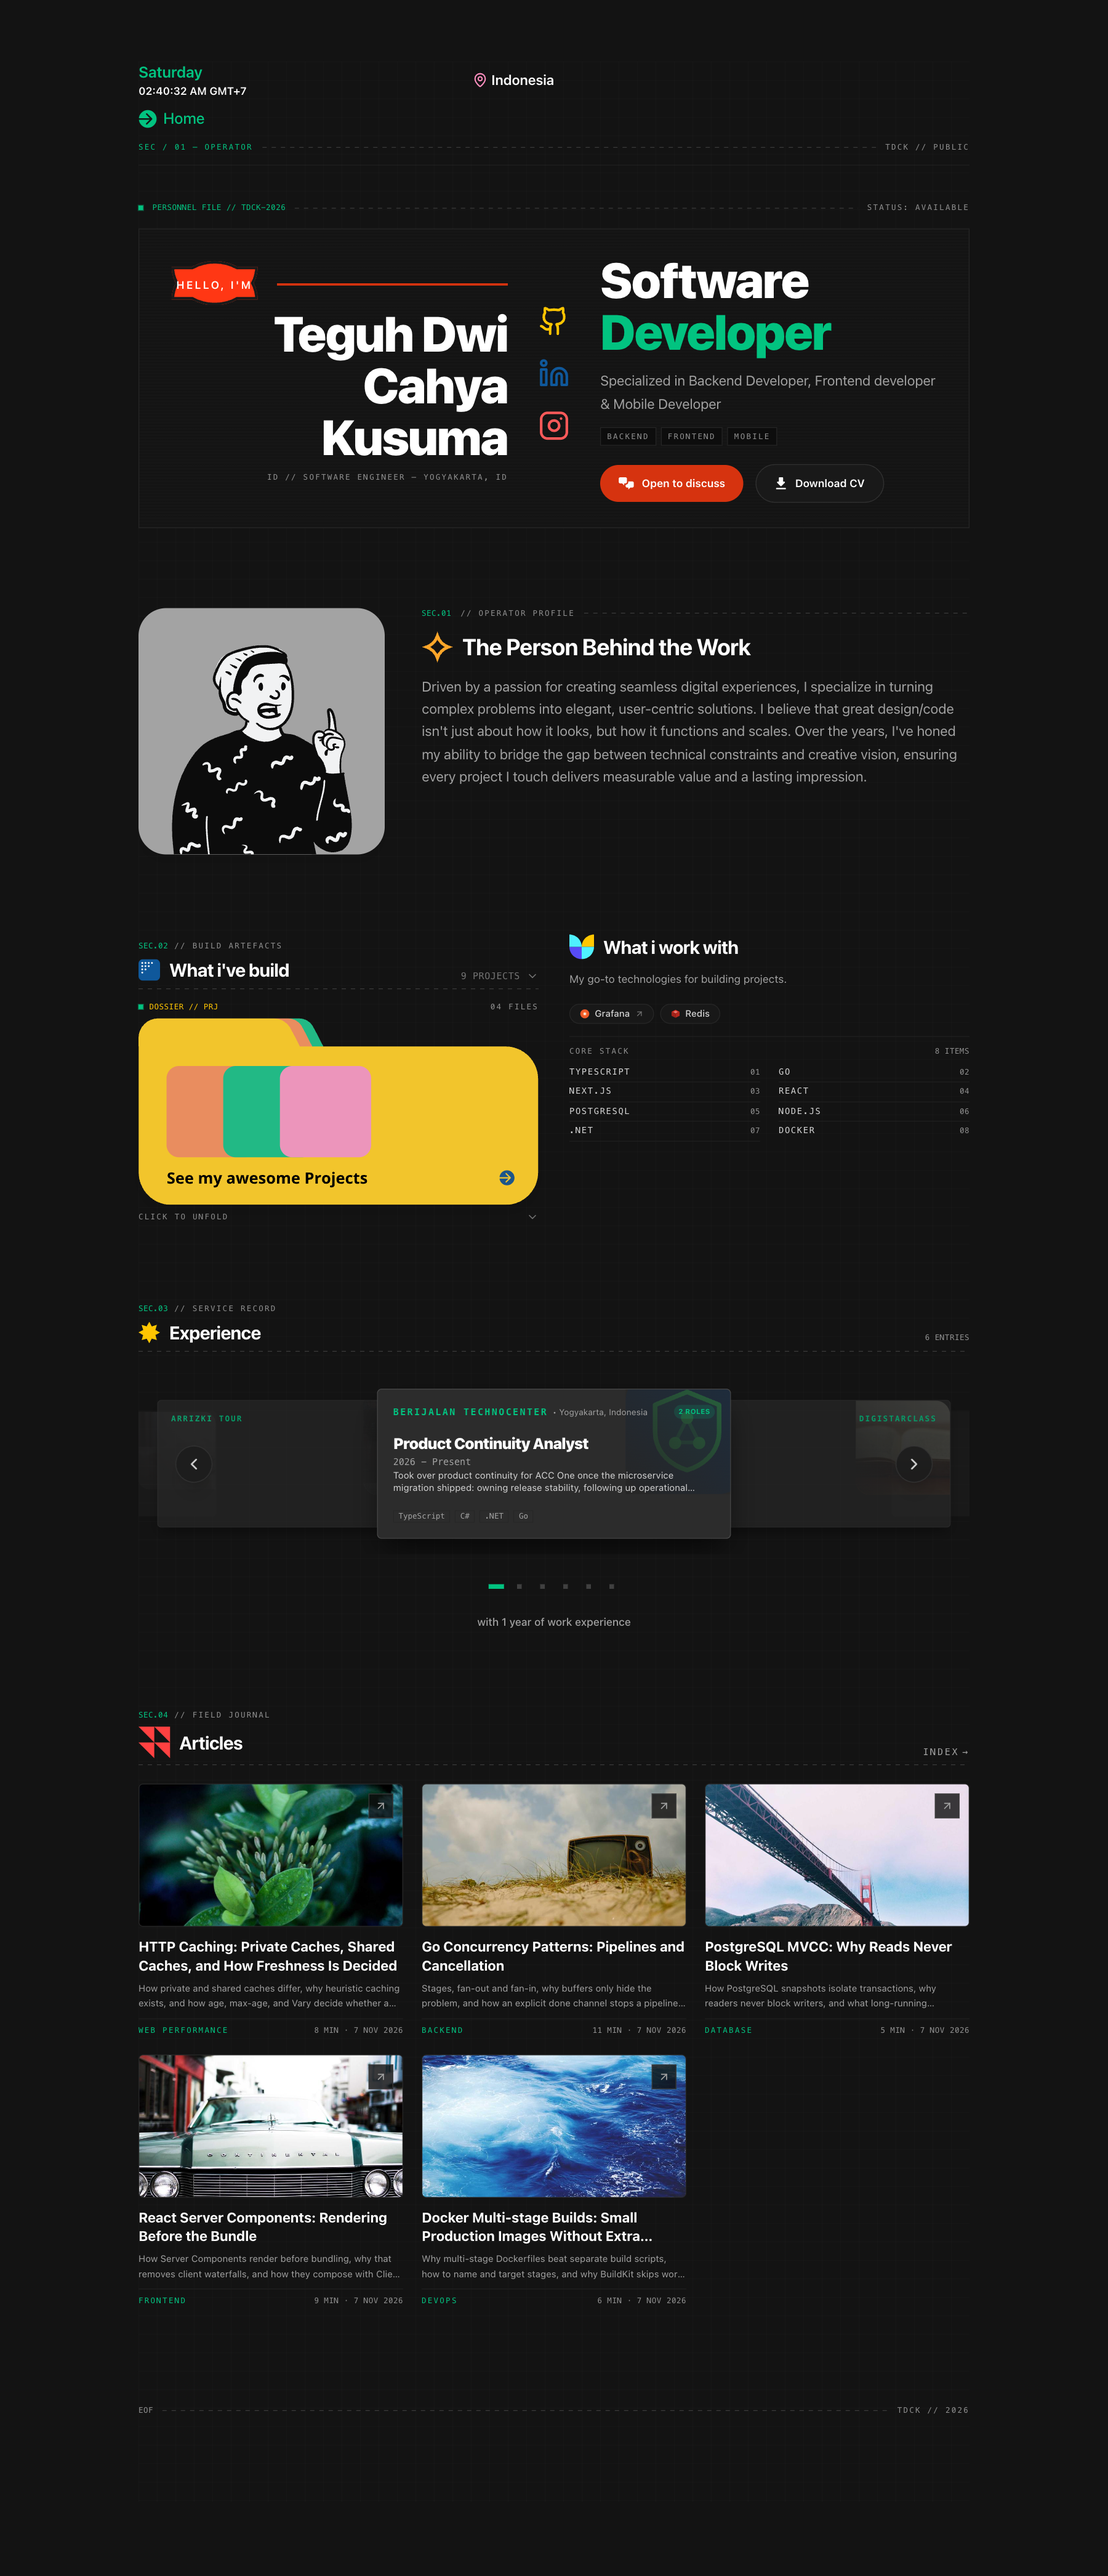
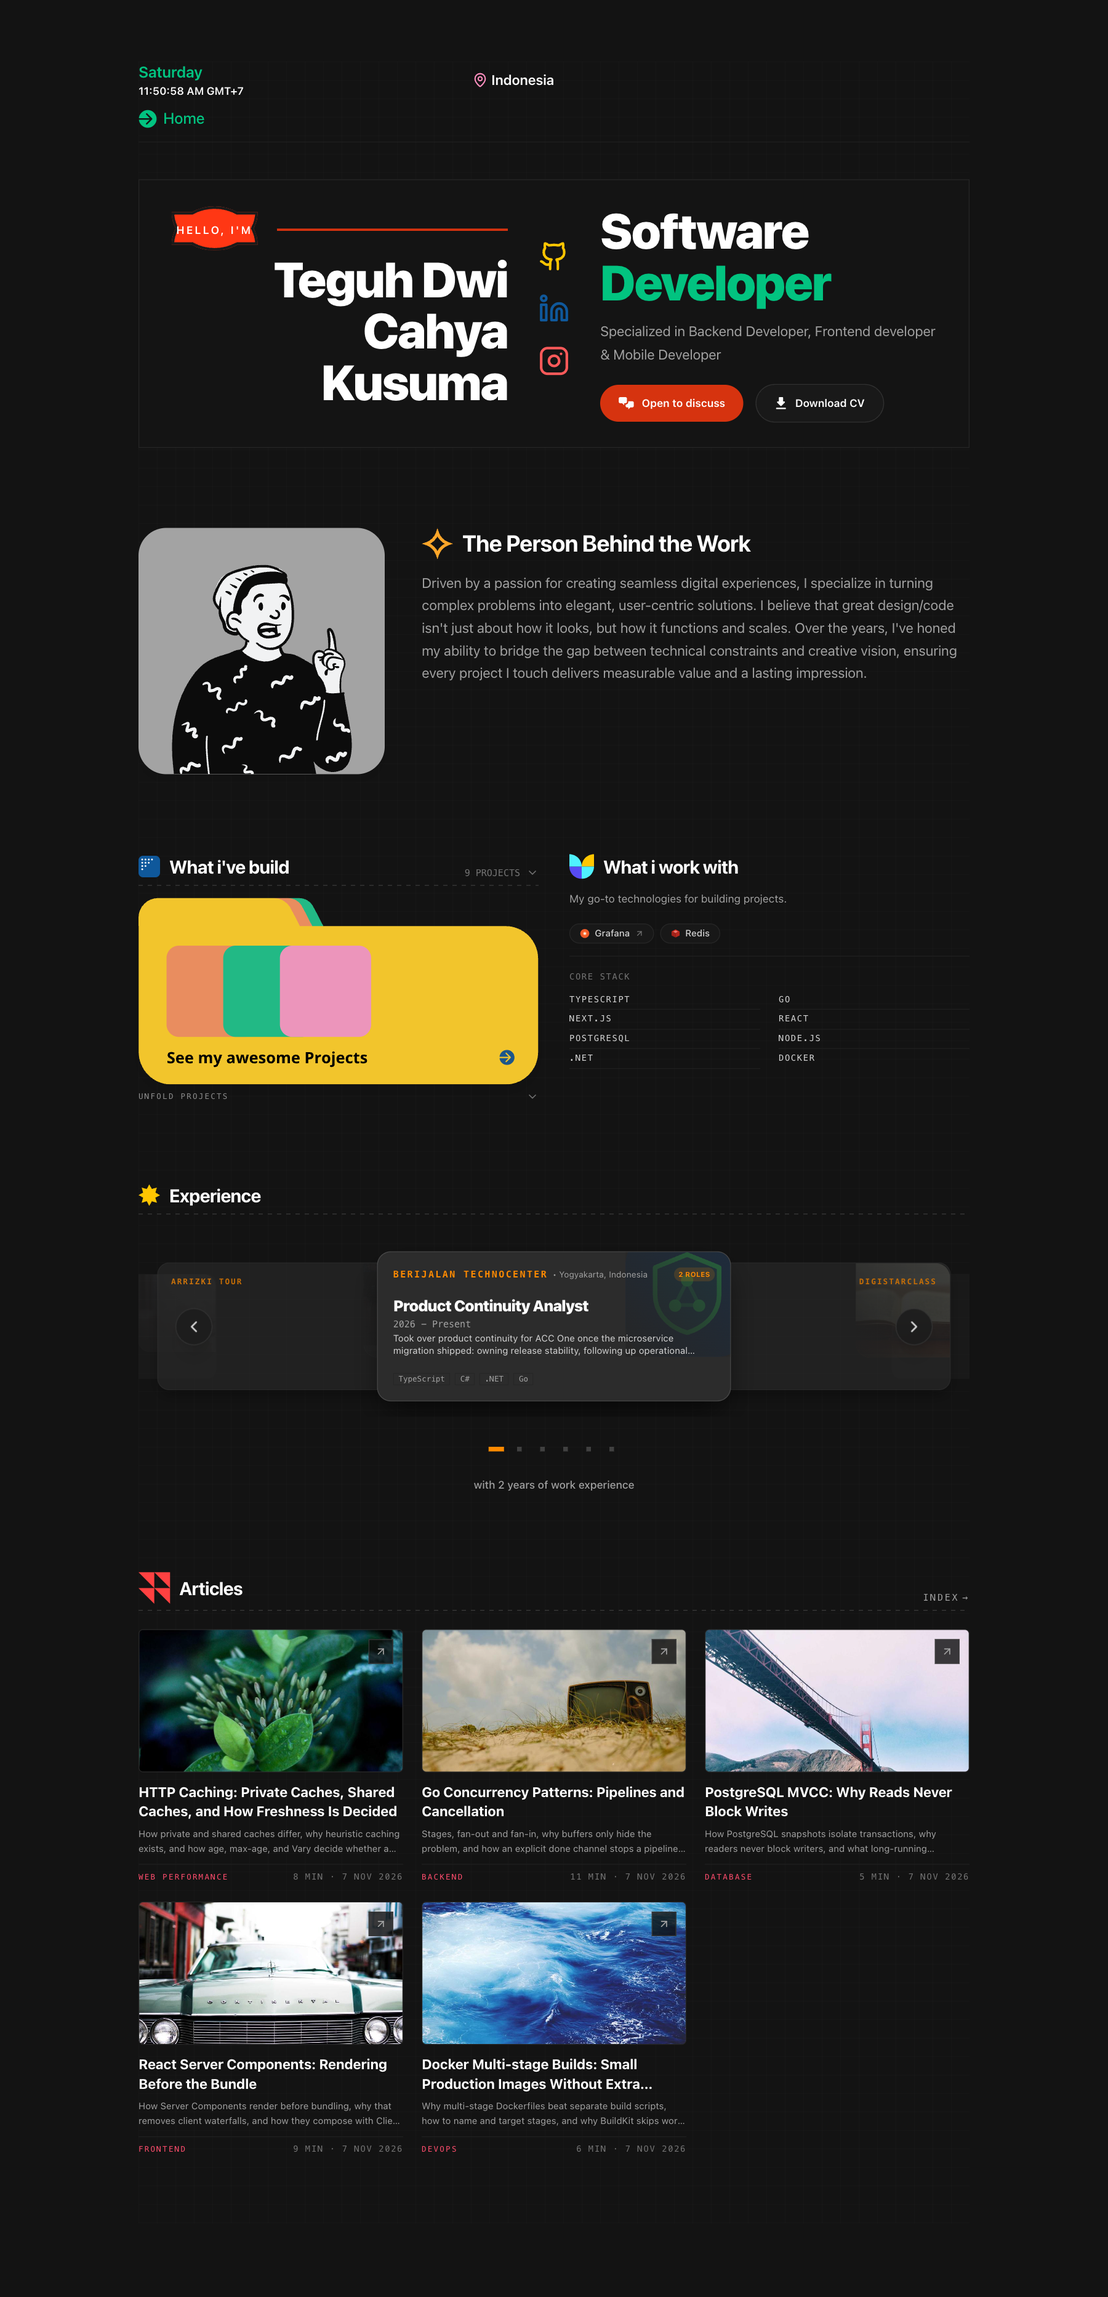
style(public): remove shell decorative telemetry and retain semantic page content

diff --git a/src/components/molecules/project/SimpleProjectList.tsx b/src/components/molecules/project/SimpleProjectList.tsx
@@ -2,7 +2,6 @@
 
 import FolderIcon from "@/assets/svg/folder";
 import ProjectIcon from "@/assets/svg/project-icon";
-import { SectionHeader } from "@/components/molecules/header/SectionHeader";
 import { useProjectCount, useProjects } from "@/hooks/queries/project.wrapper";
 import { TProjectRow } from "@/interface/entities/project.interface";
 import { AnimatePresence, m } from "motion/react";
@@ -167,24 +166,26 @@ export const SimpleProjectList: React.FC = () => {
             type="button"
             onClick={() => setIsExpanded((prev) => !prev)}
             aria-expanded={isExpanded}
-            className="focus-spec group w-full cursor-pointer text-left focus:outline-none"
+            className="group w-full cursor-pointer text-left focus:outline-none"
           >
-            <SectionHeader
-              title="What i've build"
-              icon={<ProjectIcon className="h-6 w-6 rounded-sm md:h-7 md:w-7" />}
-              action={
-                <div className="flex items-center gap-2 text-xs font-medium text-neutral-500">
-                  <span className="font-mono">{count} PROJECTS</span>
-                  <ChevronDown
-                    className={`h-4 w-4 transition-transform duration-300 ${
-                      isExpanded
-                        ? "rotate-180 text-[var(--signal)]"
-                        : "text-neutral-500"
-                    }`}
-                  />
-                </div>
-              }
-            />
+            <div className="flex items-center justify-between">
+              <div className="flex items-center gap-3">
+                <ProjectIcon className="h-6 w-6 rounded-sm md:h-7 md:w-7" />
+                <h3 className="text-2xl font-bold text-white tracking-tight group-hover:text-[var(--signal)] transition-colors">
+                  What i've build
+                </h3>
+              </div>
+              <div className="flex items-center gap-2 text-xs font-medium text-neutral-500">
+                <span className="font-mono">{count} PROJECTS</span>
+                <ChevronDown
+                  className={`h-4 w-4 transition-transform duration-300 ${
+                    isExpanded
+                      ? "rotate-180 text-[var(--signal)]"
+                      : "text-neutral-500"
+                  }`}
+                />
+              </div>
+            </div>
           </button>
 
           {/* Folder trigger: keeps the original dossier artwork (the unfold has
@@ -196,7 +197,7 @@ export const SimpleProjectList: React.FC = () => {
               aria-expanded={isExpanded}
               aria-controls={isExpanded ? "project-previews" : undefined}
               title={isExpanded ? "Fold records back" : "Unfold project records"}
-              className="focus-spec group block w-full max-w-[614px] cursor-pointer text-left focus:outline-none"
+              className="group block w-full max-w-[614px] cursor-pointer text-left focus:outline-none"
             >
               <FolderIcon className="aspect-[614/286] w-full drop-shadow-xl saturate-[0.78] transition-[filter,transform] duration-300 group-hover:-translate-y-1 group-hover:saturate-100" />
             </button>
@@ -308,10 +309,10 @@ export const SimpleProjectList: React.FC = () => {
               Core stack
             </span>
             <ul className="mt-2 grid grid-cols-1 gap-x-6 sm:grid-cols-2">
-              {CORE_STACK.map((tech, i) => (
+              {CORE_STACK.map((tech) => (
                 <li
                   key={tech}
-                  className="flex items-baseline justify-between gap-3 border-b border-[var(--line-soft)] py-1 last:border-b-0"
+                  className="border-b border-[var(--line-soft)] py-1 last:border-b-0"
                 >
                   <span className="font-mono text-[11px] uppercase tracking-[0.12em] text-neutral-300">
                     {tech}

diff --git a/src/components/organisms/SimpleProjectPage.tsx b/src/components/organisms/SimpleProjectPage.tsx
@@ -82,7 +82,7 @@ export const SimpleProjectPage: React.FC = () => {
   }, [data]);
 
   return (
-    <div className="w-full space-y-12 py-6">
+    <div className="w-full space-y-12 py-6" data-section="build">
       {/* Header */}
       <div className="space-y-4">
         <div className="flex items-center gap-3">
@@ -112,7 +112,7 @@ export const SimpleProjectPage: React.FC = () => {
           {projects.map((proj) => (
             <div
               key={proj.id}
-              className={`plate cornered lift group flex flex-col justify-between p-6 hover:border-[var(--line-strong)] sm:p-7 ${
+              className={`group flex flex-col justify-between rounded-2xl border border-blue-950/70 bg-[#0b1622] p-6 transition-all duration-200 hover:border-[var(--signal)]/50 hover:shadow-2xl sm:p-7 ${
                 projects.length % 2 === 1 && projects[projects.length - 1].id === proj.id
                   ? "md:col-span-2"
                   : ""
@@ -138,7 +138,7 @@ export const SimpleProjectPage: React.FC = () => {
                       href={proj.link}
                       target="_blank"
                       rel="noopener noreferrer"
-                      className="focus-spec shrink-0 border border-[var(--line)] p-2 text-neutral-400 transition-colors hover:border-[var(--signal)] hover:text-[var(--signal)]"
+                      className="shrink-0 border border-[var(--line)] p-2 text-neutral-400 transition-colors hover:border-[var(--signal)] hover:text-[var(--signal)]"
                       aria-label={`Open ${proj.title} link`}
                     >
                       <ExternalLink className="w-4 h-4" />
@@ -156,7 +156,7 @@ export const SimpleProjectPage: React.FC = () => {
                   <div className="space-y-3 mt-4 pt-4 border-t border-neutral-800/70">
                     {proj.problem && (
                       <div className="border border-[var(--line-soft)] bg-[var(--ink-900)] p-3.5">
-                        <span className="spec-label spec-label--caution mb-1 block">
+                        <span className="spec-label mb-1 block">
                           Problem
                         </span>
                         <p className="text-xs text-neutral-400 leading-relaxed">
@@ -167,7 +167,7 @@ export const SimpleProjectPage: React.FC = () => {
 
                     {proj.solution && (
                       <div className="border border-[var(--line-soft)] bg-[var(--ink-900)] p-3.5">
-                        <span className="spec-label spec-label--signal mb-1 block">
+                        <span className="spec-label mb-1 block">
                           Solution
                         </span>
                         <p className="text-xs text-neutral-400 leading-relaxed">

diff --git a/src/components/molecules/experience/SimpleExperienceList.tsx b/src/components/molecules/experience/SimpleExperienceList.tsx
@@ -2,7 +2,6 @@
 
 import Sun from "@/assets/svg/sun";
 import ExperienceDialog from "@/components/molecules/experience/ExperienceDialog";
-import { SectionHeader } from "@/components/molecules/header/SectionHeader";
 import { ExperienceCard } from "@/constants/dummies/experience-carousel";
 import { useExperiences } from "@/hooks/queries/experience.wrapper";
 import { useCssColors } from "@/hooks/useCssColors";
@@ -375,13 +374,12 @@ export const SimpleExperienceList: React.FC<SimpleExperienceListProps> = ({
       onMouseLeave={() => setIsHovered(false)}
     >
       {/* Header */}
-      <SectionHeader
-        title="Experience"
-        icon={
-          <Sun className="h-6 w-6 shrink-0 text-[var(--caution)] md:h-7 md:w-7" />
-        }
-        className="w-full"
-      />
+      <div className="flex items-center justify-center gap-3 group w-full">
+        <Sun className="h-6 w-6 shrink-0 text-[var(--caution)] md:h-7 md:w-7" />
+        <h3 className="text-3xl font-bold text-white tracking-tight transition-colors">
+          Experience
+        </h3>
+      </div>
 
       {/* Carousel Container with Left & Right Arrows */}
       <div className="relative w-full flex items-center justify-center select-none py-1">
@@ -435,7 +433,7 @@ export const SimpleExperienceList: React.FC<SimpleExperienceListProps> = ({
                   height: isMobile ? "165px" : "195px",
                   pointerEvents: isVisible ? "auto" : "none",
                 }}
-                className="absolute cursor-pointer overflow-hidden rounded-sm p-4 sm:p-5 flex flex-col justify-between"
+                className="absolute cursor-pointer overflow-hidden rounded-2xl border border-orange-950/50 bg-[#1a130b] p-4 sm:p-5 flex flex-col justify-between"
                 onClick={() => {
                   if (isCenter) {
                     handleOpenModal(item);

diff --git a/src/components/molecules/article/SimpleArticleList.tsx b/src/components/molecules/article/SimpleArticleList.tsx
@@ -1,7 +1,6 @@
 "use client";
 
 import Triangles from "@/assets/svg/triangles";
-import { SectionHeader } from "@/components/molecules/header/SectionHeader";
 import { ArticlePreviewCard } from "@/components/molecules/article/ArticlePreviewCard";
 import { useArticles } from "@/hooks/queries/article.wrapper";
 import { TArticleRow } from "@/interface/entities/article.interface";
@@ -24,20 +23,23 @@ export const SimpleArticleList: React.FC = () => {
   return (
     <div className="space-y-6">
       {/* Header */}
-      <SectionHeader
-        title="Articles"
-        icon={<Triangles />}
-        action={
-          <button
-            type="button"
-            onClick={() => router.push("/article")}
-            className="focus-spec flex cursor-pointer items-center gap-1 font-mono text-xs uppercase tracking-[0.18em] text-neutral-400 transition-colors hover:text-[var(--signal)]"
-          >
-            <span>Index</span>
-            <span aria-hidden="true">→</span>
-          </button>
-        }
-      />
+      <div className="flex items-center justify-between">
+        <div className="flex items-center gap-3">
+          <Triangles />
+          <h3 className="text-2xl lg:text-3xl font-bold text-white tracking-tight">
+            Articles
+          </h3>
+        </div>
+
+        <button
+          type="button"
+          onClick={() => router.push("/article")}
+          className="flex cursor-pointer items-center gap-1 font-mono text-xs uppercase tracking-[0.18em] text-neutral-400 transition-colors hover:text-[var(--signal)]"
+        >
+          <span>Index</span>
+          <span aria-hidden="true">→</span>
+        </button>
+      </div>
 
       {/* Grid: Only real articles from database */}
       {isLoading ? (

diff --git a/src/components/molecules/project/ProjectPaperCard.tsx b/src/components/molecules/project/ProjectPaperCard.tsx
@@ -36,7 +36,7 @@ export const ProjectPaperCard: React.FC<ProjectPaperCardProps> = ({
           onClick?.();
         }
       }}
-      className="focus-spec group relative isolate flex h-full w-full cursor-pointer flex-col focus:outline-none"
+      className="group relative isolate flex h-full w-full cursor-pointer flex-col focus:outline-none"
     >
       {/* Underside plate, offset for the stacked-document read */}
       <div
@@ -63,7 +63,7 @@ export const ProjectPaperCard: React.FC<ProjectPaperCardProps> = ({
                   rel="noopener noreferrer"
                   onClick={(e) => e.stopPropagation()}
                   title={`Open ${project.title}`}
-                  className="focus-spec shrink-0 border border-[var(--line)] p-2 text-neutral-400 transition-colors hover:border-[var(--signal)] hover:text-[var(--signal)]"
+                  className="shrink-0 border border-[var(--line)] p-2 text-neutral-400 transition-colors hover:border-[var(--signal)] hover:text-[var(--signal)]"
                 >
                   <ArrowUpRight className="h-3.5 w-3.5" />
                 </a>

diff --git a/src/components/organisms/ArticleDetailPage.tsx b/src/components/organisms/ArticleDetailPage.tsx
@@ -27,7 +27,7 @@ const ArticleDetailPage = ({
     <ScrollableContainer className="h-screen relative rounded-2xl overflow-y-auto">
       <ArticleHeader />
 
-      <article className="max-w-350 mx-auto px-6 py-16 relative z-10">
+      <article className="max-w-350 mx-auto px-6 py-16 relative z-10" data-section="article">
         <div className="max-w-170 mx-auto mb-12">
           <h1 className="text-5xl md:text-6xl font-bold text-white mb-8 leading-tight">
             {data?.title}
@@ -124,7 +124,7 @@ const ArticleDetailPage = ({
                     </div>
                   </RenderIf>
                   <div className="p-6">
-                    <span className="spec-label spec-label--signal mb-3 inline-block border border-[var(--line)] px-2 py-0.5">
+                    <span className="spec-label mb-3 inline-block border border-[var(--line)] px-2 py-0.5">
                       {relatedItem.category}
                     </span>
                     <h3 className="text-white font-bold text-lg mb-3 line-clamp-2 group-hover:text-[var(--signal)] transition-colors">

diff --git a/src/components/organisms/SimpleExperiencePage.tsx b/src/components/organisms/SimpleExperiencePage.tsx
@@ -179,7 +179,7 @@ export const SimpleExperiencePage: React.FC = () => {
   };
 
   return (
-    <div className="w-full space-y-12 py-6">
+    <div className="w-full space-y-12 py-6" data-section="experience">
       {/* Header */}
       <div className="space-y-4">
         <div className="flex items-center gap-3">
@@ -209,7 +209,7 @@ export const SimpleExperiencePage: React.FC = () => {
           {experiences.map((exp) => (
             <div
               key={exp.id}
-              className="plate cornered lift space-y-6 p-6 hover:border-[var(--line-strong)] sm:p-8"
+              className="space-y-6 rounded-2xl border border-orange-950/60 bg-[#1a130b] p-6 transition-all duration-200 hover:border-[var(--signal)]/60 sm:p-8"
             >
               {/* Company Header */}
               <div className="flex flex-col sm:flex-row sm:items-center justify-between gap-3 border-b border-neutral-800/80 pb-4">

diff --git a/src/components/organisms/SimpleArticlePage.tsx b/src/components/organisms/SimpleArticlePage.tsx
@@ -70,7 +70,7 @@ export const SimpleArticlePage: React.FC<SimpleArticlePageProps> = ({
   };
 
   return (
-    <div className="w-full space-y-10 py-4">
+    <div className="w-full space-y-10 py-4" data-section="article">
       {/* 1. Header matching Image #2 */}
       <div className="space-y-3">
         <div className="flex items-center gap-3">
@@ -115,7 +115,7 @@ export const SimpleArticlePage: React.FC<SimpleArticlePageProps> = ({
 
       {/* 3. Article Card List (shared borderless card with the home summary) */}
       <h2 className="text-lg font-bold tracking-tight text-white">
-        Article index
+        Articles
       </h2>
       {isLoading ? (
         <div className="grid grid-cols-1 gap-6 pt-2 md:grid-cols-2 lg:grid-cols-3">

diff --git a/src/components/organisms/wrapper/SimpleModeView.tsx b/src/components/organisms/wrapper/SimpleModeView.tsx
@@ -113,13 +113,19 @@ export const SimpleModeView: React.FC<{
       </div>
 
       {/* 3. What i've build & What i work with */}
-      <SimpleProjectList />
+      <div data-section="build">
+        <SimpleProjectList />
+      </div>
 
       {/* 4. Experience Section */}
-      <SimpleExperienceList />
+      <div data-section="experience">
+        <SimpleExperienceList />
+      </div>
 
       {/* 5. Articles Section */}
-      <SimpleArticleList />
+      <div data-section="article">
+        <SimpleArticleList />
+      </div>
 
       {/* 6. Footer rule */}
     </div>

diff --git a/src/components/molecules/article/ArticlePreviewCard.tsx b/src/components/molecules/article/ArticlePreviewCard.tsx
@@ -68,7 +68,7 @@ export const ArticlePreviewCard: React.FC<ArticlePreviewCardProps> = ({
       </div>
 
       <div className="mt-2.5 flex items-center justify-between gap-2 border-t border-[var(--line-soft)] pt-2">
-        <span className="spec-label spec-label--signal">{article.category || "Tech"}</span>
+        <span className="spec-label">{article.category || "Tech"}</span>
         <span className="font-mono text-[11px] uppercase tracking-[0.12em] text-neutral-500">
           {readTime} MIN · {formatArticleDate(article.created_at)}
         </span>

diff --git a/src/app/(main)/article/page.tsx b/src/app/(main)/article/page.tsx
@@ -1,5 +1,4 @@
 import SimpleArticlePage from "@/components/organisms/SimpleArticlePage";
-import PublicPageShell from "@/components/organisms/wrapper/PublicPageShell";
 import { TArticleRow } from "@/interface/entities/article.interface";
 import React from "react";
 
@@ -62,11 +61,9 @@ export default async function ArticleListPage() {
   ]);
 
   return (
-    <PublicPageShell >
       <SimpleArticlePage
         initialArticles={initialArticles ?? undefined}
         initialCategories={initialCategories}
       />
-    </PublicPageShell>
   );
 }

diff --git a/src/styles/tokens.css b/src/styles/tokens.css
@@ -235,3 +235,22 @@
     gap: var(--space-9);
   }
 }
+
+/* ---- Section accents: the signal colour rotates per surface ------------- */
+[data-section="build"] {
+  --signal: #3b82f6;
+  --signal-dim: #2563eb;
+  --signal-deep: #172554;
+}
+
+[data-section="experience"] {
+  --signal: #ff8a00;
+  --signal-dim: #d97706;
+  --signal-deep: #431407;
+}
+
+[data-section="article"] {
+  --signal: #ff4d6d;
+  --signal-dim: #e11d48;
+  --signal-deep: #4a0817;
+}
